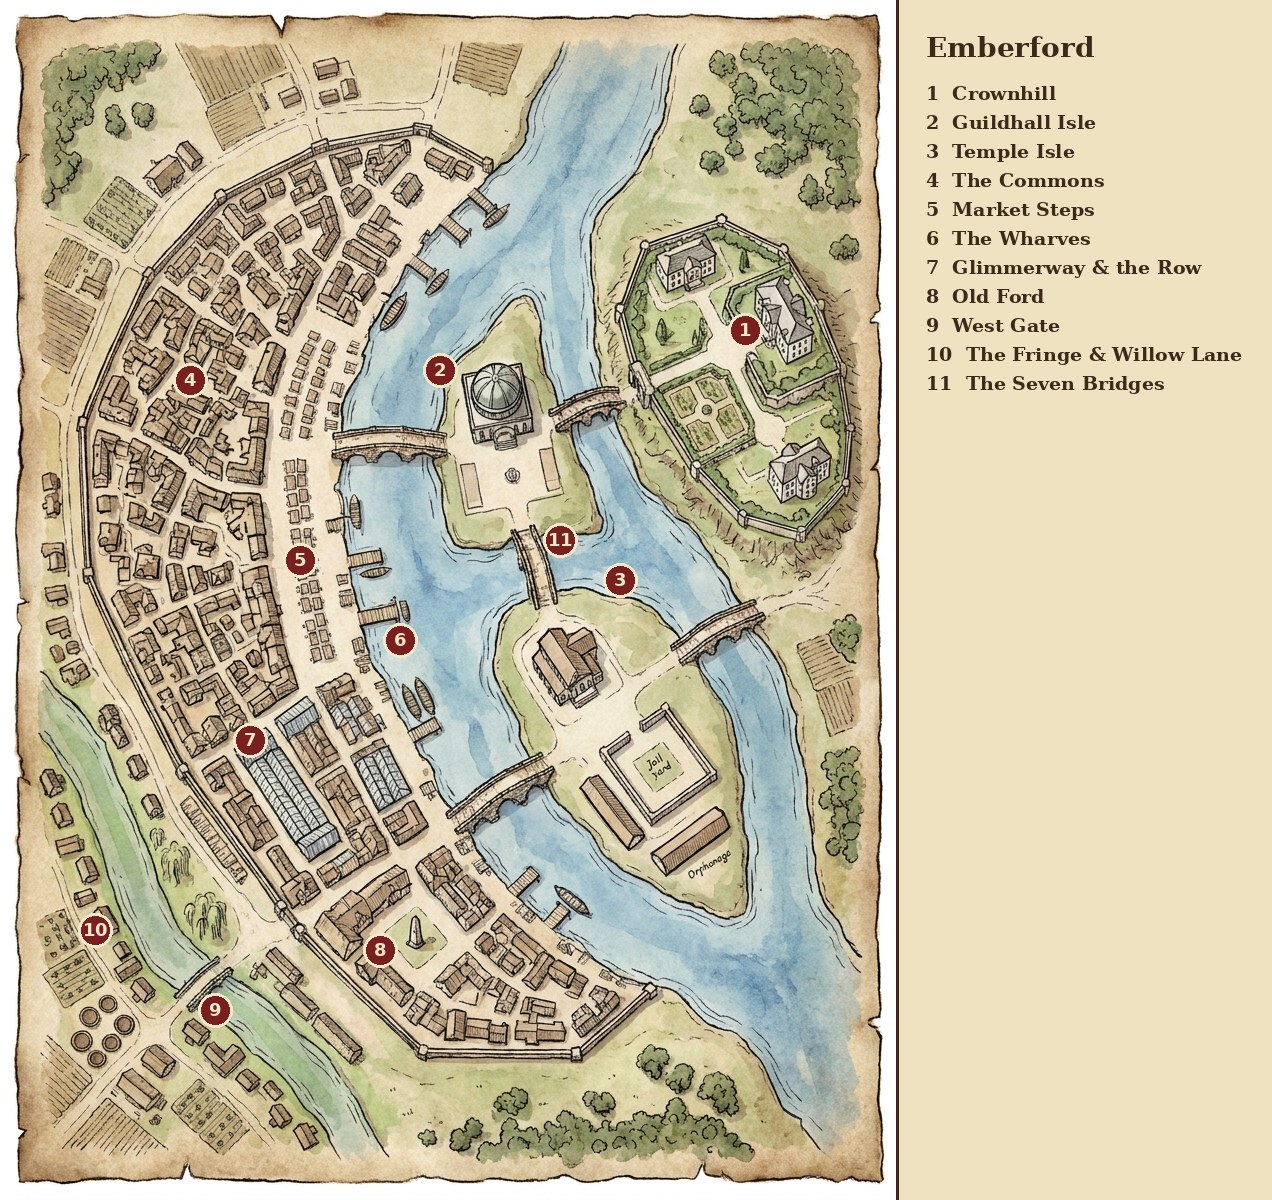
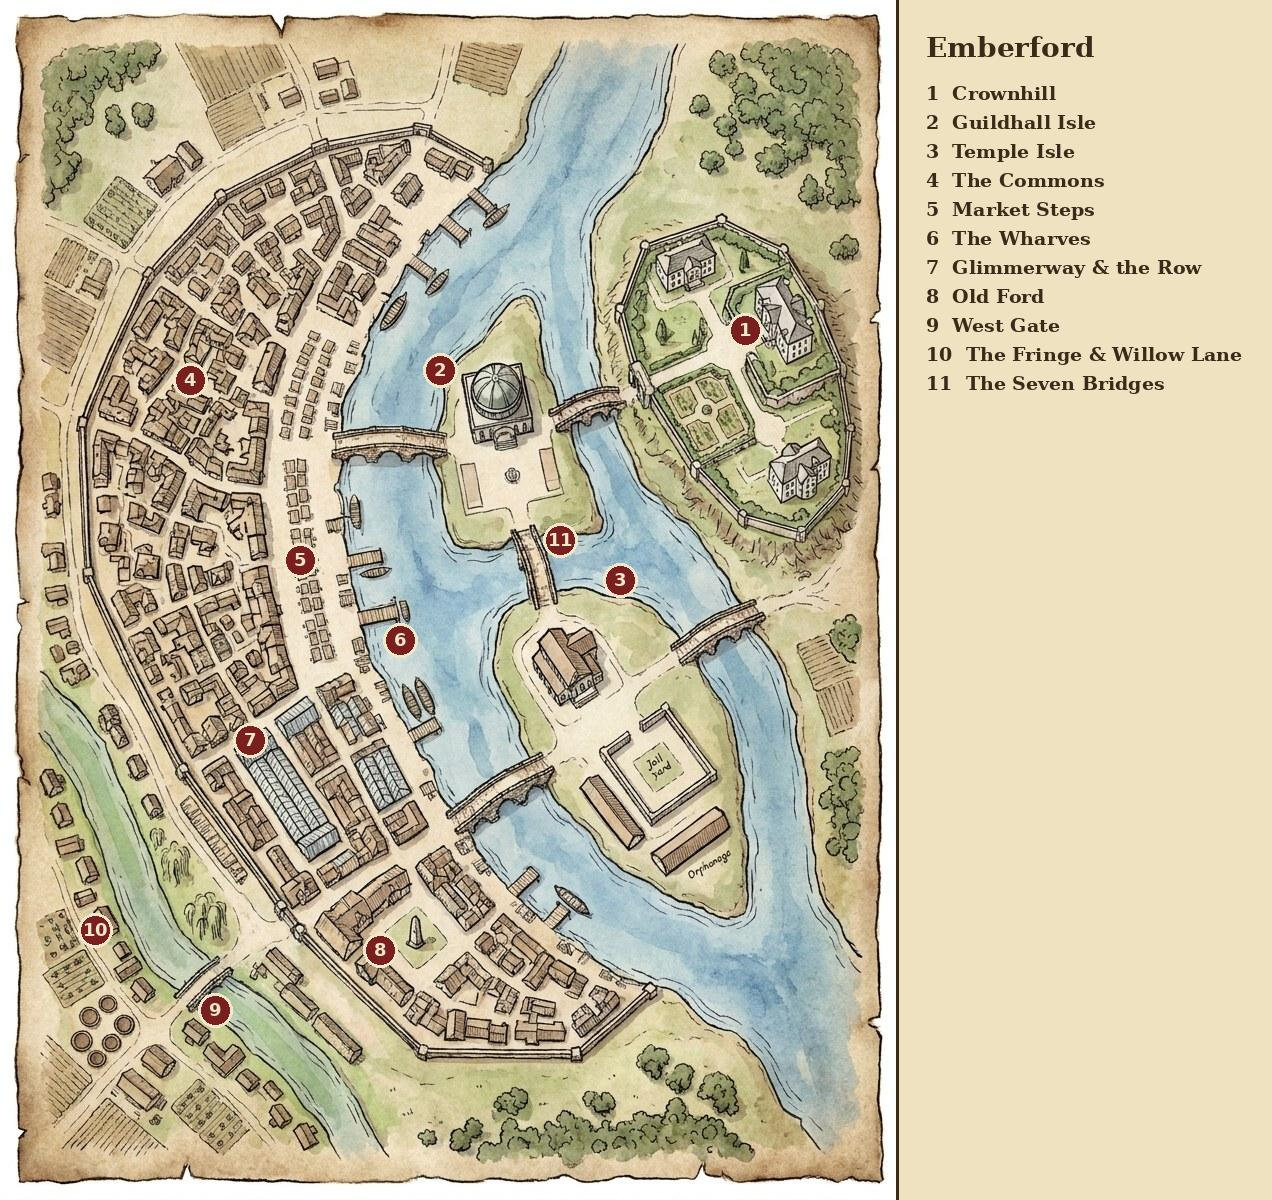
Add keyed maps
Claude-Session: https://claude.ai/code/session_012oYut6aFJ5DvcVXwpAU8vX

diff --git a/player/player-packet.md b/player/player-packet.md
@@ -549,7 +549,7 @@ These are rumors. Some are true, some aren't, and some are half true.
 **Maps (player versions, labeled only with what a local would know):**
 - Eyrland and the Tamber River: `/player/maps/eyrland-region.jpg`
 - Emberford: `/player/maps/emberford-city.jpg`
-- Willow Lane: `/player/maps/willow-lane.jpg`
+- Willow Lane: `/player/maps/willow-lane.jpg` (with a numbered key: `/player/maps/willow-lane-keyed.jpg`)
 
 **Party portraits:**
 - Ash: `/art/portraits/pc-01-ash.jpg`
